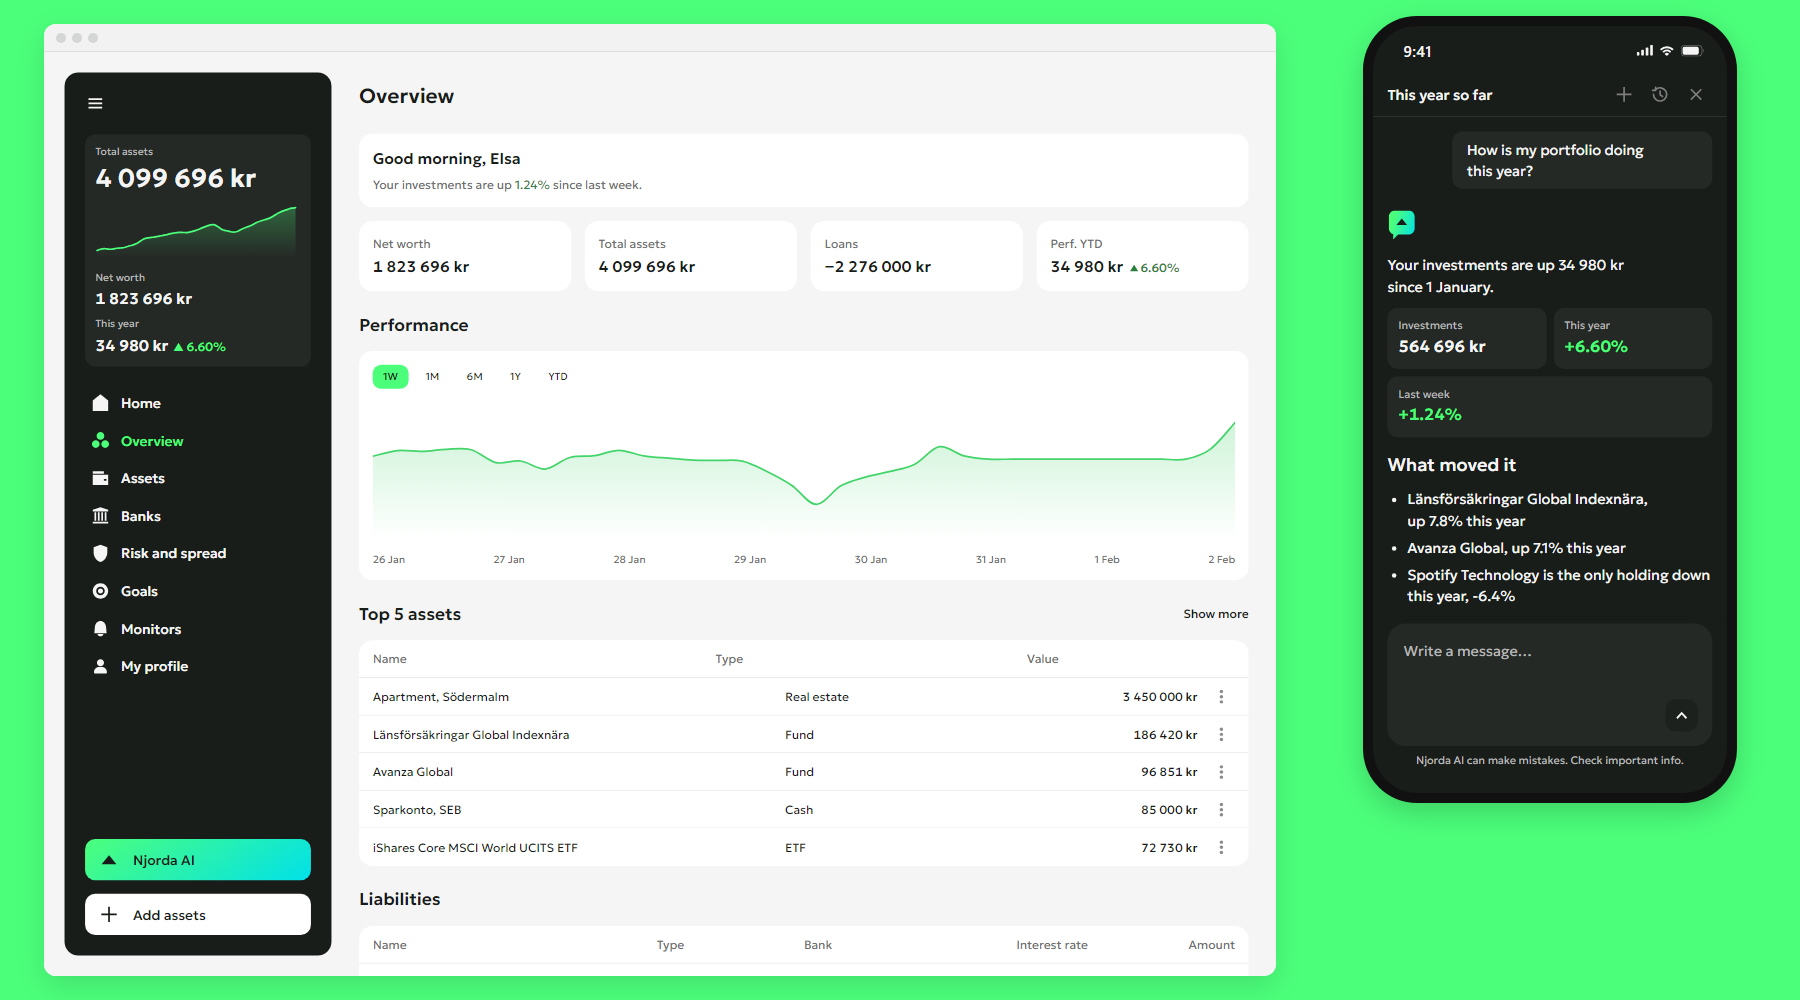
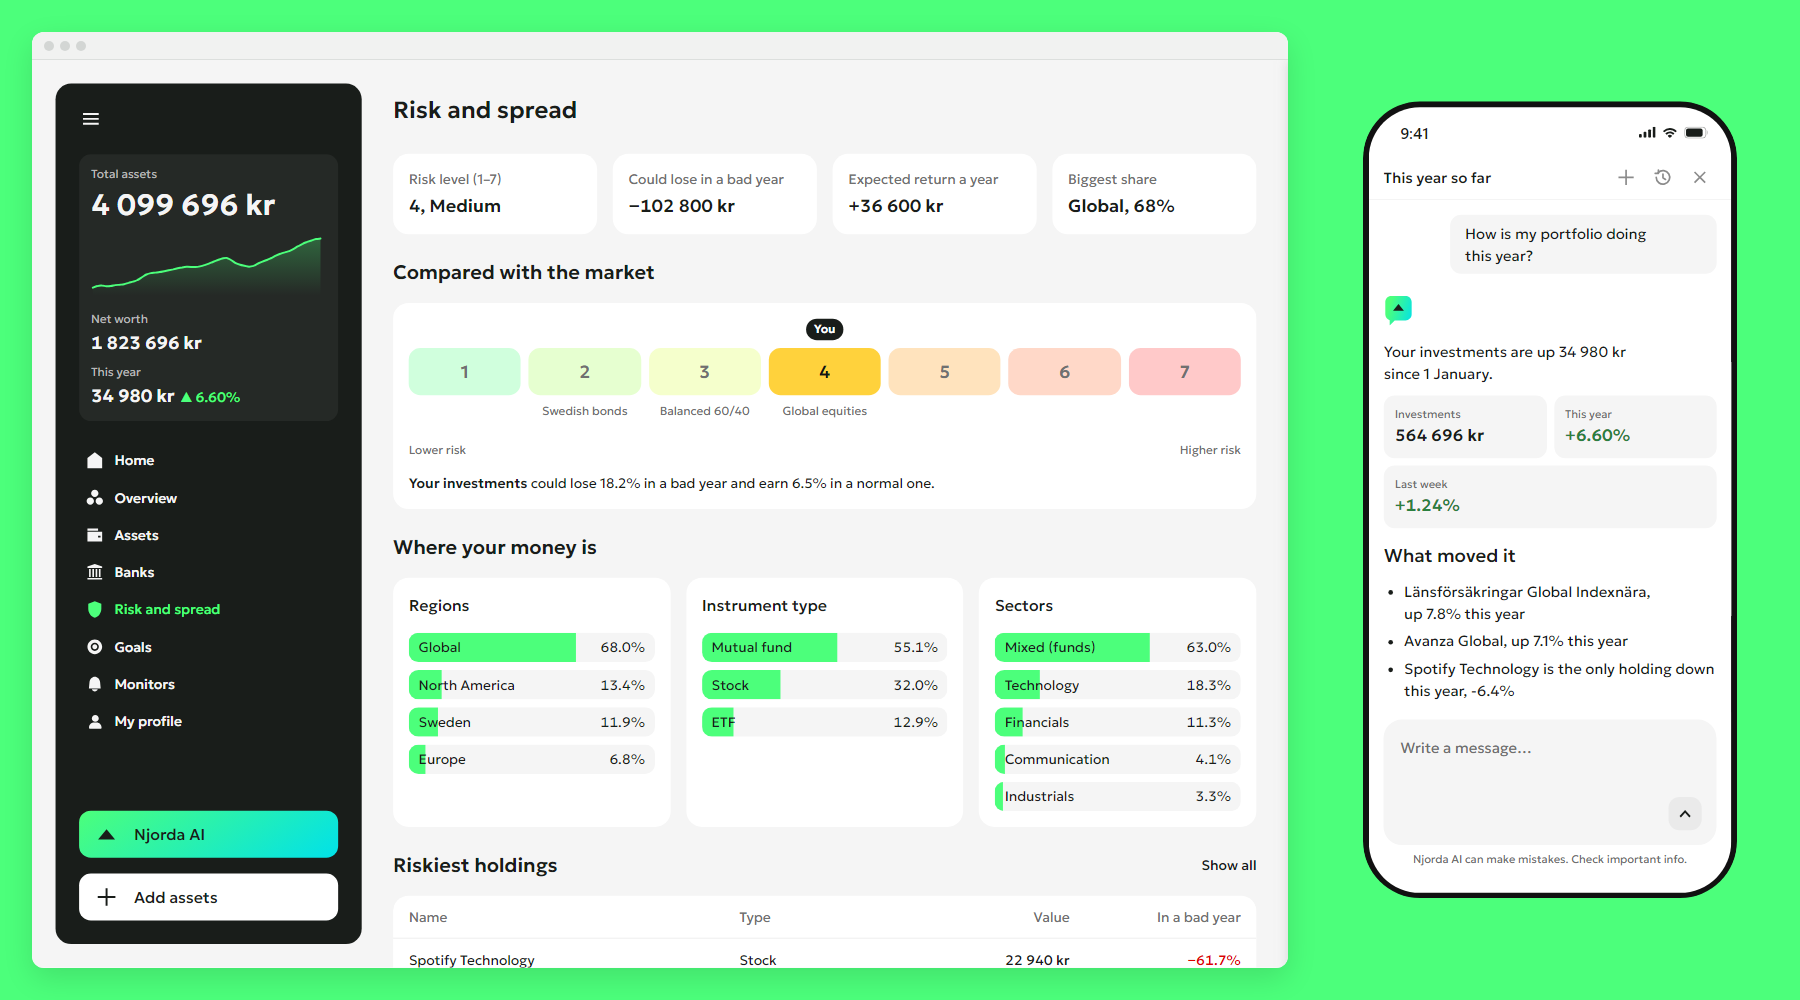
Case covers: Njorda shows Risk and spread with a light phone; dark covers for the dark theme

diff --git a/index.html b/index.html
@@ -172,6 +172,11 @@
   [data-reveal] { transition: opacity .5s ease, transform .5s ease; }
   html.intro-on [data-reveal] { opacity: 0; transform: translateY(12px); }
   html.intro-on [data-reveal].is-in { opacity: 1; transform: none; }
+
+  /* case covers: a light and a dark picture, the one for the site theme shows (dark: images/*-dark.png) */
+  .th-dark { display: none !important; }
+  [data-theme="dark"] .th-dark { display: block !important; }
+  [data-theme="dark"] .th-light { display: none !important; }
 </style>
 </head>
 <body>
@@ -212,7 +217,7 @@
   <section class="wide section" id="work">
     <div class="section__head"><h2>Selected case studies</h2></div>
     <a class="case" href="njorda-app.html">
-      <div class="case__img"><img src="images/njorda-card.png" width="1800" height="1000" alt="The Njorda app: Overview on the web, and the AI assistant answering a question on a phone" loading="lazy"></div>
+      <div class="case__img"><img class="th-light" src="images/njorda-card.png" width="1800" height="1000" alt="The Njorda app: Risk and spread on the web, and the AI assistant answering a question on a phone" loading="lazy"><img class="th-dark" src="images/njorda-card-dark.png" width="1800" height="1000" alt="The Njorda app: Risk and spread on the web, and the AI assistant answering a question on a phone" loading="lazy"></div>
       <div class="case__body">
         <p class="case__meta">Njorda, 2023 to 2026</p>
         <h3>From a dashboard to an assistant</h3>
@@ -222,7 +227,7 @@
       </div>
     </a>
     <a class="case" href="portfolio-builder.html">
-      <div class="case__img case__img--portal"><img src="images/pb-card.png" width="1800" height="1000" alt="The Njorda advisor portal: the client list, and the portfolio builder comparing a client’s current portfolio with a proposal" loading="lazy"></div>
+      <div class="case__img case__img--portal"><img class="th-light" src="images/pb-card.png" width="1800" height="1000" alt="The Njorda advisor portal: the client list, and the portfolio builder comparing a client’s current portfolio with a proposal" loading="lazy"><img class="th-dark" src="images/pb-card-dark.png" width="1800" height="1000" alt="The Njorda advisor portal: the client list, and the portfolio builder comparing a client’s current portfolio with a proposal" loading="lazy"></div>
       <div class="case__body">
         <p class="case__meta">Njorda, 2022 to 2026</p>
         <h3>Advisor portal and portfolio builder</h3>

diff --git a/njorda-app.html b/njorda-app.html
@@ -209,6 +209,11 @@
   [data-reveal] { transition: opacity .5s ease, transform .5s ease; }
   html.intro-on [data-reveal] { opacity: 0; transform: translateY(12px); }
   html.intro-on [data-reveal].is-in { opacity: 1; transform: none; }
+
+  /* case covers: a light and a dark picture, the one for the site theme shows (dark: images/*-dark.png) */
+  .th-dark { display: none !important; }
+  [data-theme="dark"] .th-dark { display: block !important; }
+  [data-theme="dark"] .th-light { display: none !important; }
 </style>
 </head>
 <body>
@@ -367,7 +372,7 @@
     <div class="next">
       <p class="next__label">Next case study</p>
       <a class="next__card" href="portfolio-builder.html">
-        <div class="next__img next__img--portal"><img src="images/pb-card.png" width="1800" height="1000" alt="" loading="lazy"></div>
+        <div class="next__img next__img--portal"><img class="th-light" src="images/pb-card.png" width="1800" height="1000" alt="" loading="lazy"><img class="th-dark" src="images/pb-card-dark.png" width="1800" height="1000" alt="" loading="lazy"></div>
         <div class="next__body">
           <p class="next__meta">Njorda, 2022 to 2026</p>
           <h3>Advisor portal and portfolio builder</h3>

diff --git a/portfolio-builder.html b/portfolio-builder.html
@@ -255,6 +255,11 @@
   [data-reveal] { transition: opacity .5s ease, transform .5s ease; }
   html.intro-on [data-reveal] { opacity: 0; transform: translateY(12px); }
   html.intro-on [data-reveal].is-in { opacity: 1; transform: none; }
+
+  /* case covers: a light and a dark picture, the one for the site theme shows (dark: images/*-dark.png) */
+  .th-dark { display: none !important; }
+  [data-theme="dark"] .th-dark { display: block !important; }
+  [data-theme="dark"] .th-light { display: none !important; }
 </style>
 </head>
 <body>
@@ -363,7 +368,7 @@
     <div class="next">
       <p class="next__label">Next case study</p>
       <a class="next__card" href="njorda-app.html">
-        <div class="next__img"><img src="images/njorda-card.png" width="1800" height="1000" alt="" loading="lazy"></div>
+        <div class="next__img"><img class="th-light" src="images/njorda-card.png" width="1800" height="1000" alt="" loading="lazy"><img class="th-dark" src="images/njorda-card-dark.png" width="1800" height="1000" alt="" loading="lazy"></div>
         <div class="next__body">
           <p class="next__meta">Njorda, 2023 to 2026</p>
           <h3>From a dashboard to an assistant</h3>
